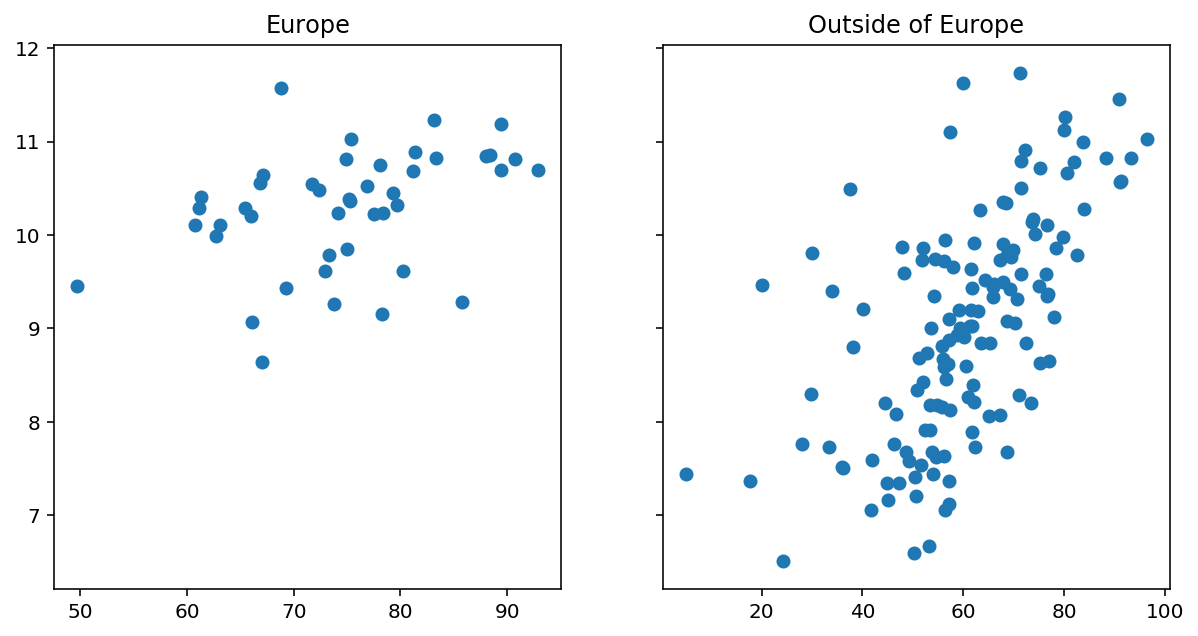
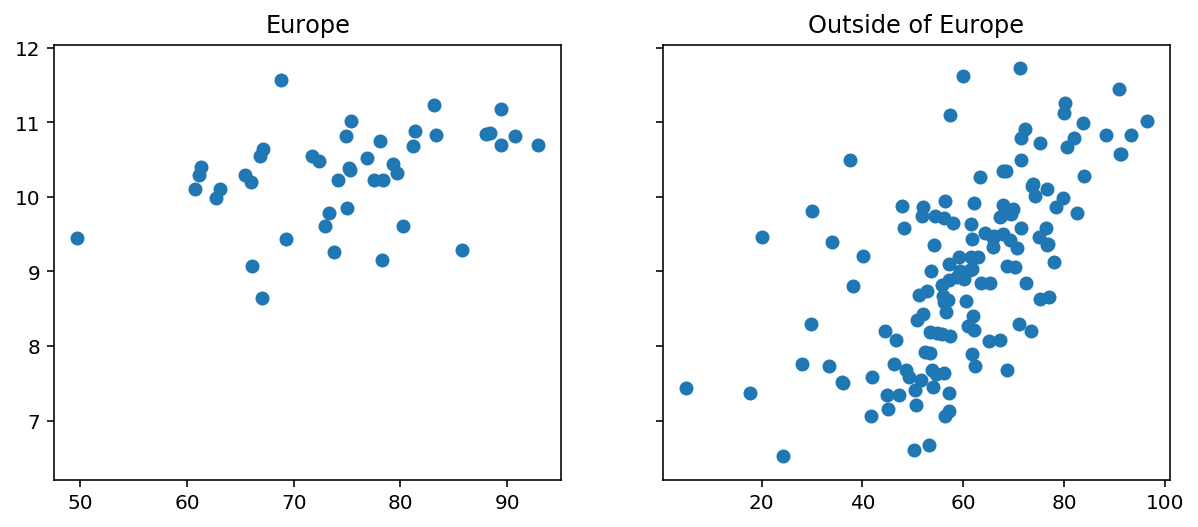
changed scatterplot size

diff --git a/_posts/2020-01-01-regression-vs-bayesian-regression.md b/_posts/2020-01-01-regression-vs-bayesian-regression.md
@@ -26,9 +26,7 @@ This is the problem we want to answer. The data is taken from the [Heritage Foun
 
 We'll answer the problem by fitting a linear model to the data and comparing the regression coefficients for countries inside and outside Europe. If the coefficients are significantly different, that will tell us about the effect of business freedom on GDP.
 
-To supplement the model, we'll also add an interaction term between `business_freedom` and `us_europe` and call it `business_freedom_x_region`.
-
-Here's what the data looks like for countries inside and outside Europe.
+To supplement the model, we'll also add an interaction term between `business_freedom` and `us_europe` and call it `business_freedom_x_region`. Here's what the data looks like for countries inside and outside Europe.
 
 &nbsp;
 
